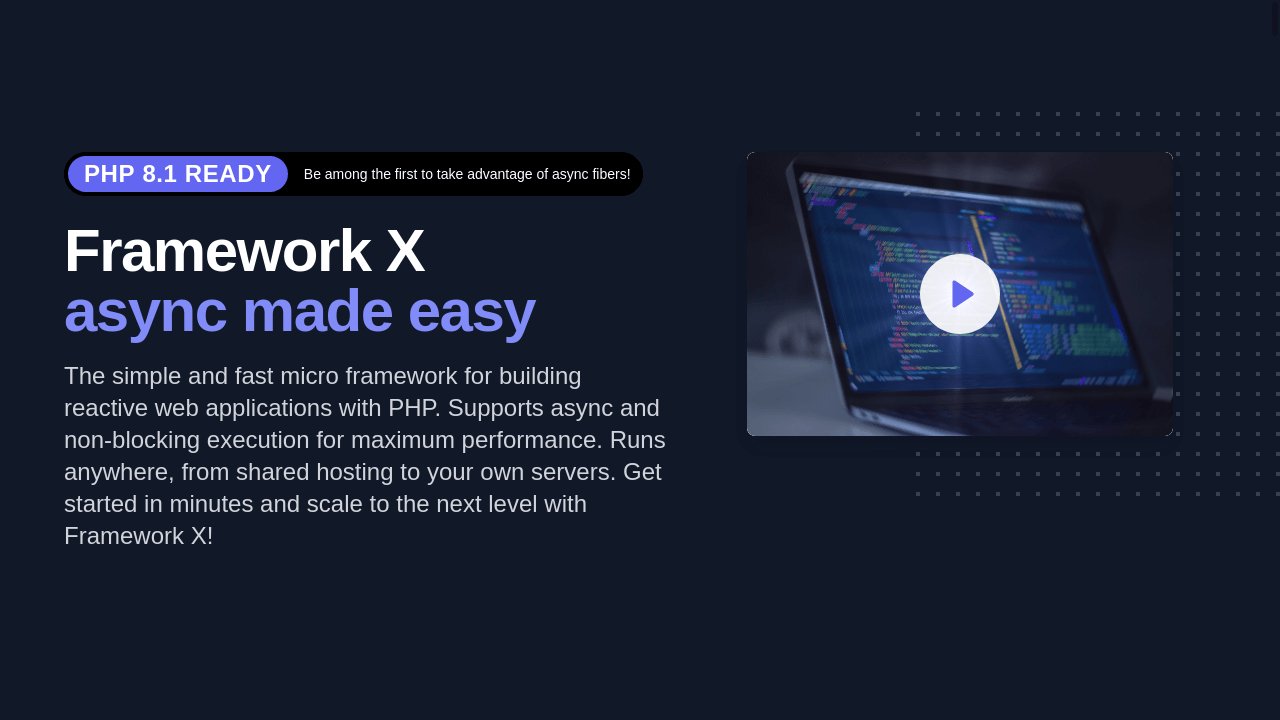
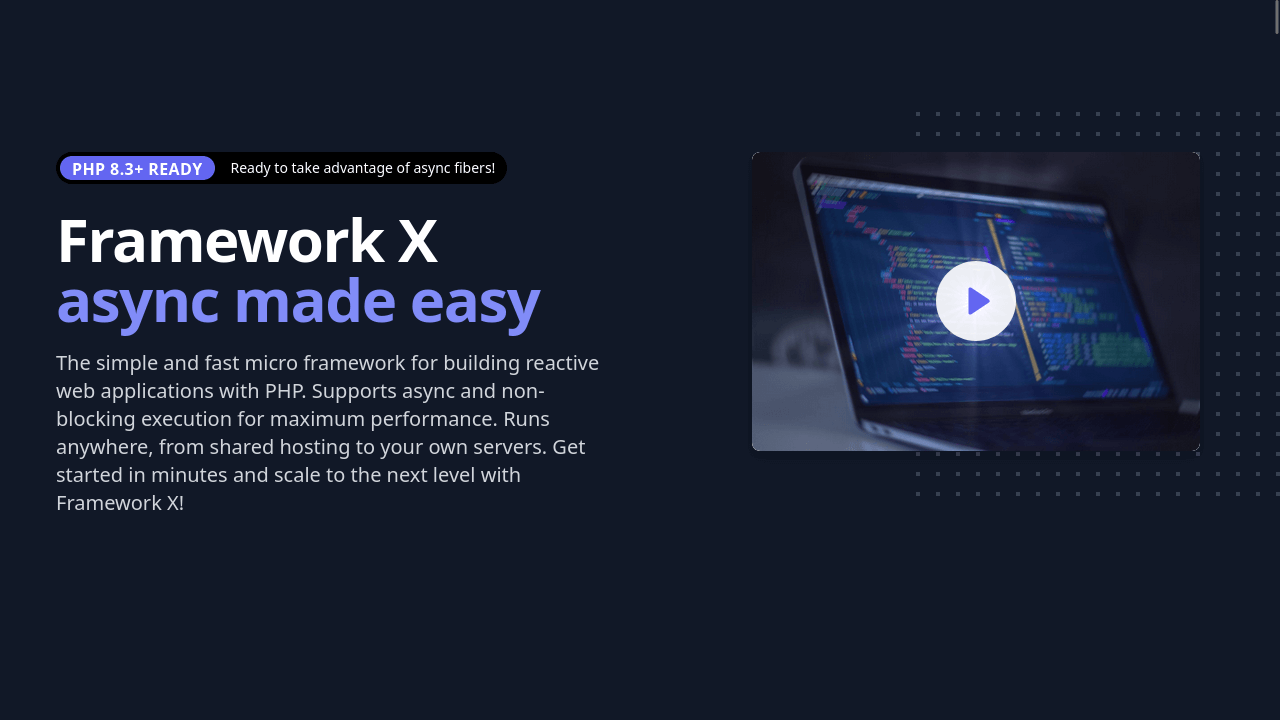
Update for Framework X v0.16.0

Changed region(s): [[0.0312, 0.3056, 0.5312, 0.7639], [0.5625, 0.2139, 0.9375, 0.6417], [0.0312, 0.2139, 0.5, 0.275]]

diff --git a/public/index.html b/public/index.html
@@ -72,8 +72,8 @@
           <div class="px-4 sm:px-6 sm:text-center md:max-w-2xl md:mx-auto lg:col-span-6 lg:text-left lg:flex lg:items-center">
             <div>
               <span class="inline-flex items-center text-white bg-black rounded-full p-1 pr-3 sm:text-base lg:text-sm xl:text-base">
-                <span class="px-3 py-0.5 text-white text-xs font-semibold leading-5 uppercase tracking-wide bg-indigo-500 rounded-full cursor-help" title="Framework X is ready for PHP 8.1, but also supports PHP 7.1+ with no extensions required">PHP 8.1 ready</span>
-                <span class="ml-4 text-sm">Be among the first to take advantage of async fibers!</span>
+                <span class="px-3 py-0.5 text-white text-xs font-semibold leading-5 uppercase tracking-wide bg-indigo-500 rounded-full cursor-help" title="Framework X is ready for PHP 8.3+, but also supports PHP 7.1+ with no extensions required">PHP 8.3+ ready</span>
+                <span class="ml-4 text-sm">Ready to take advantage of async fibers!</span>
               </span>
               <h1 class="mt-4 text-4xl tracking-tight font-extrabold text-white sm:mt-5 sm:leading-none lg:mt-6 lg:text-5xl xl:text-6xl">
                 <span class="md:block">Framework X</span>
@@ -113,7 +113,7 @@
     <div class="pr-16 sm:text-center sm:px-16">
       <p class="font-medium text-white">
         <span>
-          Big news! We're excited to announce our public beta!
+          Big news! We're excited to announce our v0.16.0 release!
         </span>
         <span class="block sm:ml-2 sm:inline-block">
           <a href="https://github.com/clue/framework-x" class="text-white font-bold underline"> Framework X on GitHub <span aria-hidden="true">&rarr;</span></a>
@@ -631,7 +631,7 @@ Transfer rate:          2358.15 [Kbytes/sec] received
         <p class="mt-3 text-lg text-gray-500">
           Framework X is scalable from the ground up. 
           We provide a simple API that is easy to get started with for the smallest of projects, yet allow to grow to complex, production-ready setups.
-          We're ready for PHP 8.1, but also support PHP 7.1+ with no extensions required!
+          We're ready for PHP 8.3+, but also support PHP 7.1+ with no extensions required!
         </p>
 
         <dl class="mt-10 space-y-10">
@@ -840,7 +840,7 @@ $app->run();
       Next, simply install Framework X with a single command:
     </p>
   </div>
-<pre class="text-left mt-12 col-span-full shadow-2xl"><code class="php rounded-md">$ composer require clue/framework-x:dev-main
+<pre class="text-left mt-12 col-span-full shadow-2xl"><code class="php rounded-md">$ composer require clue/framework-x:^0.16
 </code></pre> 
 </section>
 
